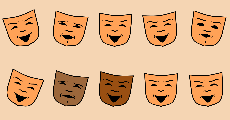
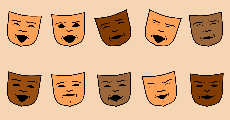
Final.

diff --git a/arrangement.js b/arrangement.js
@@ -63,21 +63,6 @@ function draw () {
         let upperLip = random(-2.5, 0);
         let lowerLip = random(-5, 0);
         let tilt_value = random(-20, 20);
-        let happy = random(0, 100);
-
-        // Conditional Randomness
-        if(happy < 50) {
-          eyeBHead = 0;
-          eyeBEnd = 0;
-          eyeInner = 0;
-          eyeOuter = 0;
-          upperEye = 0;
-          lowerEye = 0;
-          mouthWidth = 0;
-          mouthCorners = 0;
-          upperLip = 0;
-          lowerLip = 0;
-        }
 
         push();
         translate(x, y);

diff --git a/README.md b/README.md
@@ -3,4 +3,21 @@
 ## 2023 MDDN342 Assignment 2: Randomised Collections
 **This is where you talk about your project!**
 
-Little experiment with Conditional Randomness. I just used a random variable to dictate the values of my facial features, e.g. variable < 50, all facial feature values = 0. I don't know if I'll use this one; I think I already have enough of the required parameters (1 discrete, 2 continuous), but if I do I think I'll do at least 2 conditional faces.
+Final README:
+This is the final product of my project 2 work. It has a number of continuous parameters that can be adjusted via the sliders, and controls a good amount of the facial deatures (the only constant is the face shape, nose, & chin) - with parameters also effecting others.
+
+The randomised section of this code is set up in a 5 x 3 grid/display, with a time & mouse click triggering the random change. In this section I also make use of Weighted Selection for the random colour change of the face masks itsself. Overall I'm really happy with how this turned out. I think the facial features look really good, and I'm happy that everything is working pretty smoothly.
+
+Parameters & (Limits):
+[continuous] eyeBHead (-1.5, 1)
+[continuous] eyeBEnd (0, 1.5)
+[continuous] eyeInner (-0.5, 0.5)
+[continuous] eyeOuter (-0.5, 0)
+[continuous] upperEye (-0.5, 0.5)
+[continuous] lowerEye (-1.5, 1.5)
+[continuous] mouthWidth (-1, 0.5)
+[continuous] mouthCorners (0, 2)
+[continuous] upperLip (-2.5, 0)
+[continuous] lowerLip (-4, 0)
+[continuous] tilt_value (-20, 20)
+[discrete] colorChoice (0, 4)
